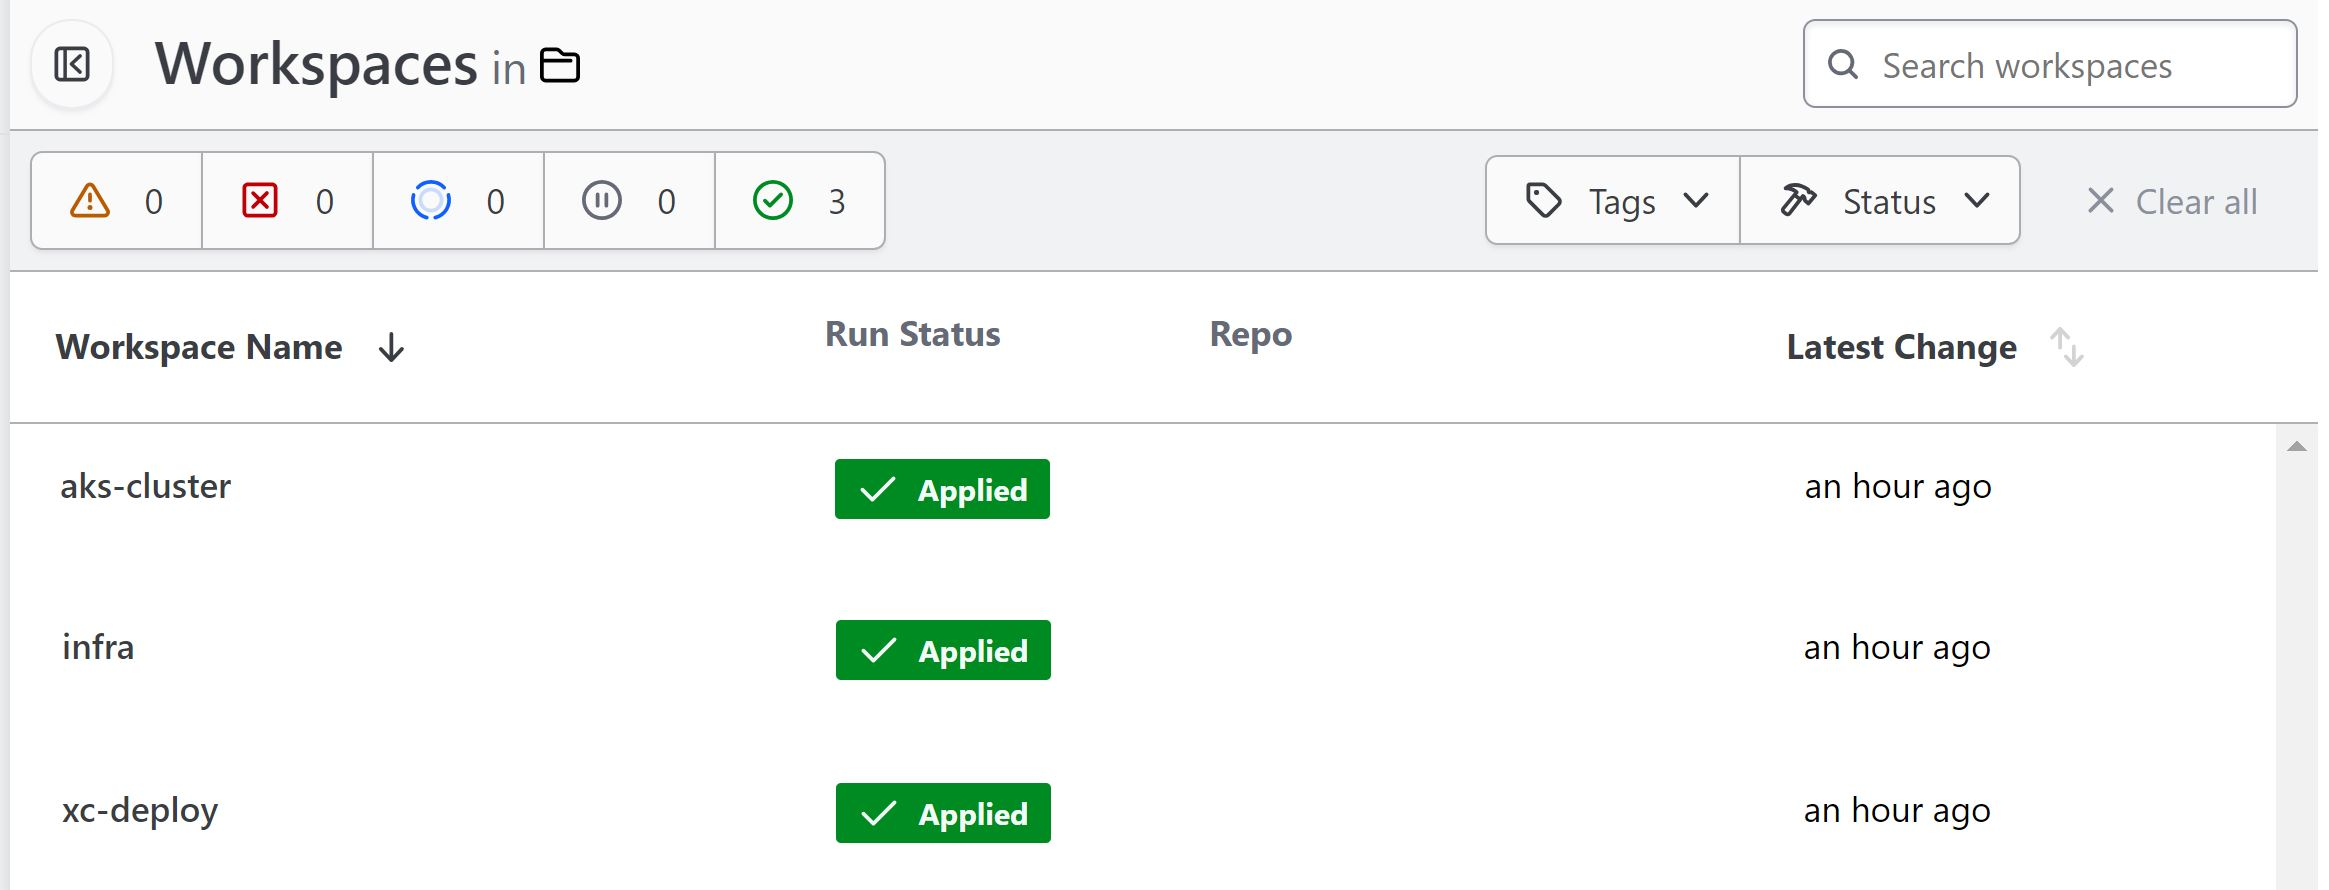
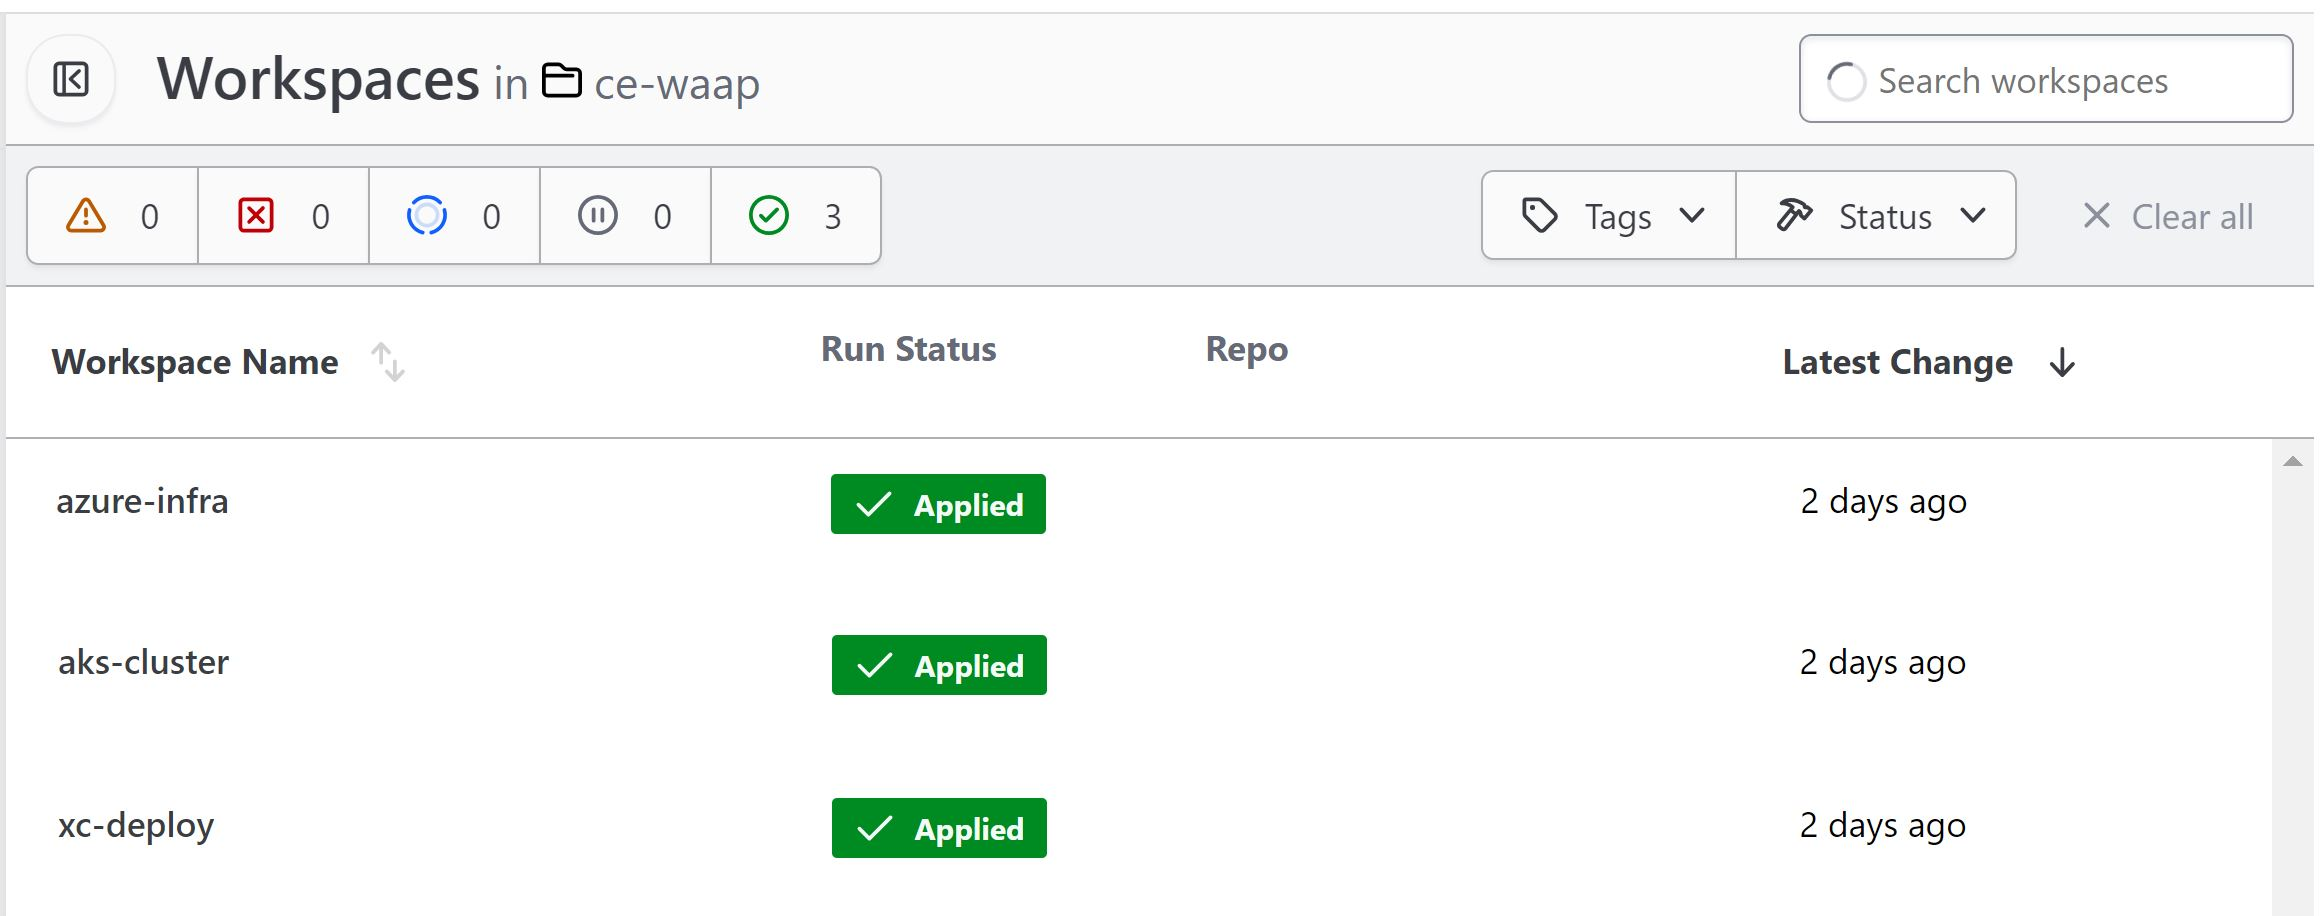
Deploy waf on any edge use-cases automation code + demo guide updates (#63)
* Update README.md

* Update automation-demo-guide.rst

* Update automation-demo-guide.rst

* Update README.rst

* Update vm-automation-demo-guide.rst

* Update vm-manual-demo-guide.rst

* Update README.rst

* Update k8s-automation-demo-guide.rst

* Update k8s-manual-demo-guide.rst

* Update README.rst

* Update automation-workflow.rst

* Update automation-workflow.rst

* Update automation-workflow.rst

* Update automation-workflow.rst

* Update manual-workflow.rst

* Update README.rst

* Update README.rst

* Update README.rst

* Update automation-demo-guide.rst

* Update automation-demo-guide.rst

* Update xc-console-demo-guide.rst

* Update README.rst

* Update README.rst

* Update automation-demo-guide.rst

* Update automation-demo-guide.rst

* Update README.rst

* Update README.rst

* Update automation-demo-guide.rst

* Update xc-console-demo-guide.rst

* Add files via upload

* Update xc-console-demo-guide.rst

* Update xc-console-demo-guide.rst

* Update xc-console-demo-guide.rst

* Update xc-console-demo-guide.rst

* Update xc-console-demo-guide.rst

* Update xc-console-demo-guide.rst

* Update xc-console-demo-guide.rst

* Update xc-console-demo-guide.rst

* Update xc-console-demo-guide.rst

* Update xc-console-demo-guide.rst

* Update xc-console-demo-guide.rst

* Update xc-console-demo-guide.rst

* Update automation-demo-guide.rst

* Update vm-automation-demo-guide.rst

* Update k8s-automation-demo-guide.rst

* Update automation-workflow.rst

* Update README.rst
[…]

diff --git a/workflow-guides/waf/f5-xc-waf-on-ce/azure/automation-demo-guide.rst b/workflow-guides/waf/f5-xc-waf-on-ce/azure/automation-demo-guide.rst
@@ -36,7 +36,7 @@ Terraform Cloud
    +---------------------------+-------------------------------------------+
    |         **Workflow**      |  **Assets/Workspaces**                    |
    +===========================+===========================================+
-   | f5-xc-waf-on-ce           | infra, aks-cluster, xc-deploy             |
+   | f5-xc-waf-on-ce           | azure-infra, aks-cluster, xc-deploy       |
    +---------------------------+-------------------------------------------+
 
 .. image:: assets/workspaces.JPG
@@ -87,8 +87,14 @@ GitHub
    -  TF_CLOUD_WORKSPACE\_\ *<Workspace Name>*: Create for each
       workspace in your workflow per each job
 
+      -  EX: TF_CLOUD_WORKSPACE_AZURE_INFRA would be created with the
+         value ``azure-infra``
+
       -  EX: TF_CLOUD_WORKSPACE_AKS_CLUSTER would be created with the
          value ``aks-cluster``
+
+      -  EX: TF_CLOUD_WORKSPACE_XC_DEPLOY would be created with the
+         value ``xc-deploy``
 
 -  Created GitHub Action Secrets:
 
@@ -122,11 +128,13 @@ Workflow File: `waf-on-ce-az-destroy.yml </.github/workflows/waf-on-ce-az-destro
 
 **STEP 2:** Rename ``azure/azure-infra/terraform.tfvars.examples`` to ``azure/azure-infra/terraform.tfvars`` and add the following data: 
 
--  project_prefix = “Your project identifier name in **lower case** letters only - this will be applied as a prefix to all assets”
+-  Set project_prefix = “Your project identifier name in **lower case** letters only - this will be applied as a prefix to all assets”
 
--  azure_region = “Azure Region/Location” ex. "southeastasia"
+-  Set azure_region = “Azure Region/Location” ex. "southeastasia"
 
--  Also update assets boolean value as per your workflow, here set aks-cluster to true
+-  Set aks-cluster to true
+
+-  Also update assets boolean value as per your workflow (for this use-case set all remaining values as false)
 
 **Step 3:** Rename ``xc/terraform.tfvars.examples`` to ``xc/terraform.tfvars`` and add the following data: 
 
@@ -142,9 +150,9 @@ Workflow File: `waf-on-ce-az-destroy.yml </.github/workflows/waf-on-ce-az-destro
 
 -  k8s_pool = "set to true if application is residing in k8s environment"
 
--  serviceName = "k8s service name of frontend microservice"
+-  serviceName = "k8s service name of frontend microservice" (for this use case set it to "frontend.default")
 
--  serviceport = "k8s service port of frontend microservice"
+-  serviceport = "k8s service port of frontend microservice" (for this use case set it to "80")
 
 -  advertise_sites = "set to false if want to advertise on public"
 
@@ -154,7 +162,9 @@ Workflow File: `waf-on-ce-az-destroy.yml </.github/workflows/waf-on-ce-az-destro
 
 -  xc_service_discovery = "set to true if want to create service discovery object in XC console"
 
-Keep the rest of the values as they are.
+-  Set azure = "azure-infra"
+
+Keep rest of the values as they are set by default in terraform.tfvars.examples file.
 
 **STEP 4:** Commit and push your build branch to your forked repo 
 

diff --git a/workflow-guides/waf/f5-xc-waf-on-ce/aws/automation-demo-guide.rst b/workflow-guides/waf/f5-xc-waf-on-ce/aws/automation-demo-guide.rst
@@ -35,7 +35,7 @@ Terraform Cloud
    +---------------------------+-----------------------------------------------------+
    |         **Workflow**      |  **Assets/Workspaces**                              |
    +===========================+=====================================================+
-   | F5 XC WAF on CE Deploy    | infra, aws_eks_cluster, boutique_app, xc-ce-site    |
+   | F5 XC WAF on CE Deploy    | aws-infra, aws_eks_cluster, boutique_app, xc-ce-site|
    +---------------------------+-----------------------------------------------------+
 
 .. image:: Assets/workspace.jpg
@@ -86,10 +86,10 @@ GitHub
    -  SSH_KEY: ssh key for accessing the created resources
    -  TF_API_TOKEN: Your Terraform Cloud API token
    -  TF_CLOUD_ORGANIZATION: Your Terraform Cloud Organization name
-   -  TF_CLOUD_WORKSPACE_BOUTIQUE: Your Terraform Cloud workspace for Boutique app
-   -  TF_CLOUD_WORKSPACE_EKS: Your Terraform Cloud workspace for AWS EKS Cluster
-   -  TF_CLOUD_WORKSPACE_INFRA: Your Terraform Cloud workspace for AWS Infrastructure
-   -  TF_CLOUD_WORKSPACE_XC: Your Terraform Cloud workspace for F5 XC
+   -  TF_CLOUD_WORKSPACE_BOUTIQUE: boutique_app
+   -  TF_CLOUD_WORKSPACE_EKS: aws_eks_cluster
+   -  TF_CLOUD_WORKSPACE_INFRA: aws-infra
+   -  TF_CLOUD_WORKSPACE_XC: xc-ce-site
    
 
 -  Created GitHub Action Secrets: 
@@ -140,6 +140,7 @@ Workflow File: `waf-on-ce-aws-destroy.yml </.github/workflows/waf-on-ce-aws-dest
 -  min_size = "set to number 1"
 -  skip_private_subnet_creation = "set the boolean to true to deploy EKS Cluster Nodes in Public Subnets"
 -  allow_all_ingress_traffic_to_cluster = "Set the boolean to true to accept the traffic from F5 XC VPC Site(master)"
+-  aws_waf_ce = "aws-infra"
 
 **Step 4:** Rename ``xc/terraform.tfvars.examples`` to ``xc/terraform.tfvars`` and add the following data: 
 
@@ -162,6 +163,8 @@ Workflow File: `waf-on-ce-aws-destroy.yml </.github/workflows/waf-on-ce-aws-dest
 -  advertise_sites = "set to true to advertise on public"
 
 -  http_only = "set to true to deploy a http loadbalancer."
+
+-  aws = "aws-infra"
 
 
 Keep the rest of the values as they are.

diff --git a/workflow-guides/waf/f5-xc-waf-on-re-appconnect/k8s/k8s-automation-demo-guide.rst b/workflow-guides/waf/f5-xc-waf-on-re-appconnect/k8s/k8s-automation-demo-guide.rst
@@ -33,7 +33,7 @@ Terraform Cloud
    +---------------------------+-------------------------------------------+
    |         **Workflow**      |  **Assets/Workspaces**                    |
    +===========================+===========================================+
-   | f5-xc-waf-on-re-appconnect| infra, aks-cluster, xc                    |
+   | f5-xc-waf-on-re-appconnect| azure-infra, aks-cluster, xc              |
    +---------------------------+-------------------------------------------+
 
 .. image:: assets/workspaces.JPG
@@ -121,9 +121,9 @@ Workflow File: `waf-re-ac-k8s-destroy.yml </.github/workflows/waf-re-ac-k8s-dest
 
 -  azure_region = “Azure Region/Location” ex. "southeastasia".
 
--  aks-cluster = Set this value to true as we need AKS cluster in our usecase.
+-  aks-cluster = Set this value to true as we need AKS cluster in our use-case.
 
--  Also update assets boolean value as per your workflow.
+-  Also update assets boolean value as per your workflow. (for this use-case set all remaining values as false)
 
 **Step 3:** Rename ``xc/terraform.tfvars.examples`` to ``xc/terraform.tfvars`` and add the following data: 
 
@@ -139,9 +139,9 @@ Workflow File: `waf-re-ac-k8s-destroy.yml </.github/workflows/waf-re-ac-k8s-dest
 
 -  k8s_pool = "Set to true as backend is residing in k8s"
 
--  serviceName = "k8s service name of backend"
+-  serviceName = "k8s service name of backend" (for this use case set it to "frontend.default")
 
--  serviceport = "k8s service port of backend"
+-  serviceport = "k8s service port of backend" (for this use case set it to "80")
 
 -  advertise_sites = "set to false as we want to advertise on public"
 
@@ -152,6 +152,8 @@ Workflow File: `waf-re-ac-k8s-destroy.yml </.github/workflows/waf-re-ac-k8s-dest
 -  az_ce_site = "set to true since we want to deploy azure CE site"
 
 -  xc_service_discovery = "set to true as want to create service discovery object in XC console"
+
+-  Set azure = "azure-infra"
 
 **STEP 4:** Commit and push your build branch to your forked repo 
 

diff --git a/workflow-guides/waf/f5-xc-waf-on-ce/gcp/automation-demo-guide.rst b/workflow-guides/waf/f5-xc-waf-on-ce/gcp/automation-demo-guide.rst
@@ -36,7 +36,7 @@ Terraform Cloud
    +---------------------------+-------------------------------------------+
    |         **Workflow**      |  **Assets/Workspaces**                    |
    +===========================+===========================================+
-   | deploy-waf-gcp            | infra, juiceshop, xc                      |
+   | deploy-waf-gcp            | gcp-infra, juiceshop, xc                  |
    +---------------------------+-------------------------------------------+
 
 
@@ -78,7 +78,7 @@ GitHub
       workspace in your workflow per each job
 
       -  TF_CLOUD_WORKSPACE_INFRA would be created with the
-         value ``infra``
+         value ``gcp-infra``
 
       -  TF_CLOUD_WORKSPACE_APP would be created with the
          value ``juiceshop``
@@ -145,6 +145,8 @@ Workflow File: `gcp-waf-ce-destroy.yml </.github/workflows/gcp-waf-ce-destroy.ya
 
 -  gcp_ce_site = "set to true since we want to deploy GCP CE site"
 
+-  gcp = "gcp-infra"
+
 .. image:: assets/xc-tfvars.JPG
 
 
@@ -162,6 +164,7 @@ Workflow File: `gcp-waf-ce-destroy.yml </.github/workflows/gcp-waf-ce-destroy.ya
 **STEP 6:** Once CE site is online and to validate the test infra & demo app accessibility, copy the public IP of CE site in `GCP CE Site View mode` and send a request with XC LB domain as a `Host` header, You should be able to access the demo application as shown in the image below:
 
 .. image:: assets/gcp-ce-ip.jpg
+   
 .. image:: assets/postman.jpg
 
 

diff --git a/workflow-guides/waf/f5-xc-waf-on-re/automation-demo-guide.rst b/workflow-guides/waf/f5-xc-waf-on-re/automation-demo-guide.rst
@@ -90,7 +90,7 @@ GitHub
    -  TF_API_TOKEN: Your Terraform Cloud API token
    -  TF_CLOUD_ORGANIZATION: Your Terraform Cloud Organization name
    -  TF_CLOUD_WORKSPACE\_\ *<Workspace Name>*: Create for each
-      workspace in your workflow per each job
+      workspace used in your workflow
 
       -  EX: TF_CLOUD_WORKSPACE_AZURE_VM would be created with the
          value ``azure-vm``
@@ -131,7 +131,9 @@ Workflow File: `waf-re-destroy.yml </.github/workflows/waf-re-destroy.yml>`__
 
 -  azure_region = “Azure Region/Location” ex. "southeastasia"
 
--  Also update assets boolean value as per your workflow, here set azure-vm and vm_public_ip to true
+-  Set azure-vm and vm_public_ip to true 
+
+-  Also update remaining assets boolean value as per your workflow. (for this use case remaining all values are false)
 
 **Step 3:** Rename ``xc/terraform.tfvars.examples`` to ``xc/terraform.tfvars`` and add the following data: 
 

diff --git a/workflow-guides/waf/f5-xc-waf-on-re-appconnect/vm/vm-automation-demo-guide.rst b/workflow-guides/waf/f5-xc-waf-on-re-appconnect/vm/vm-automation-demo-guide.rst
@@ -122,9 +122,9 @@ Workflow File: `waf-re-ac-vm-destroy.yml </.github/workflows/waf-re-ac-vm-destro
 
 -  azure-vm = Set this value to true as we need Azure in our usecase.
 
--   vm_public_ip = Set this value to false as we dont need public IP to be created for VM
+-  vm_public_ip = Set this value to false as we dont need public IP to be created for VM
 
--  Also update assets boolean value as per your workflow.
+-  Also update assets boolean value as per your workflow. (for this use-case set all remaining values as false)
 
 **Step 3:** Rename ``xc/terraform.tfvars.examples`` to ``xc/terraform.tfvars`` and add the following data: 
 
